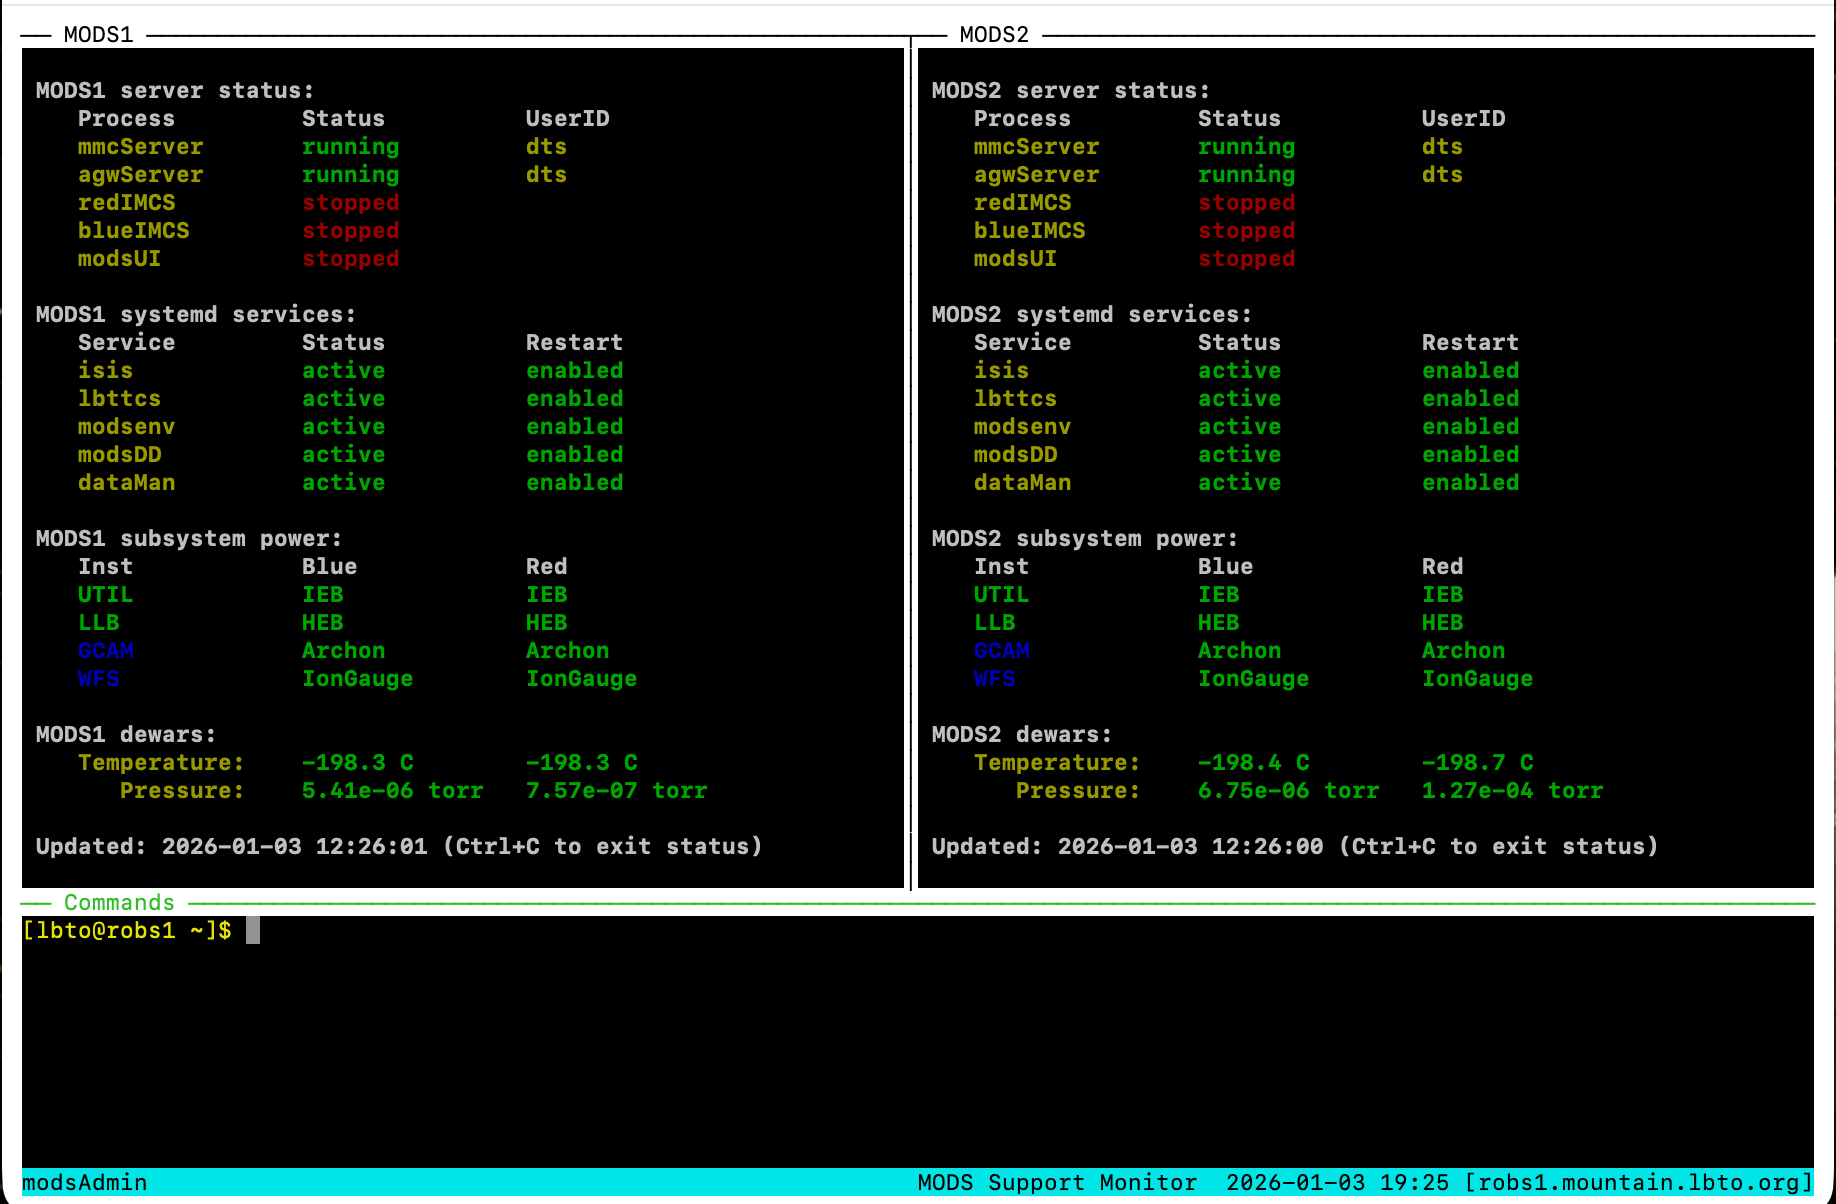
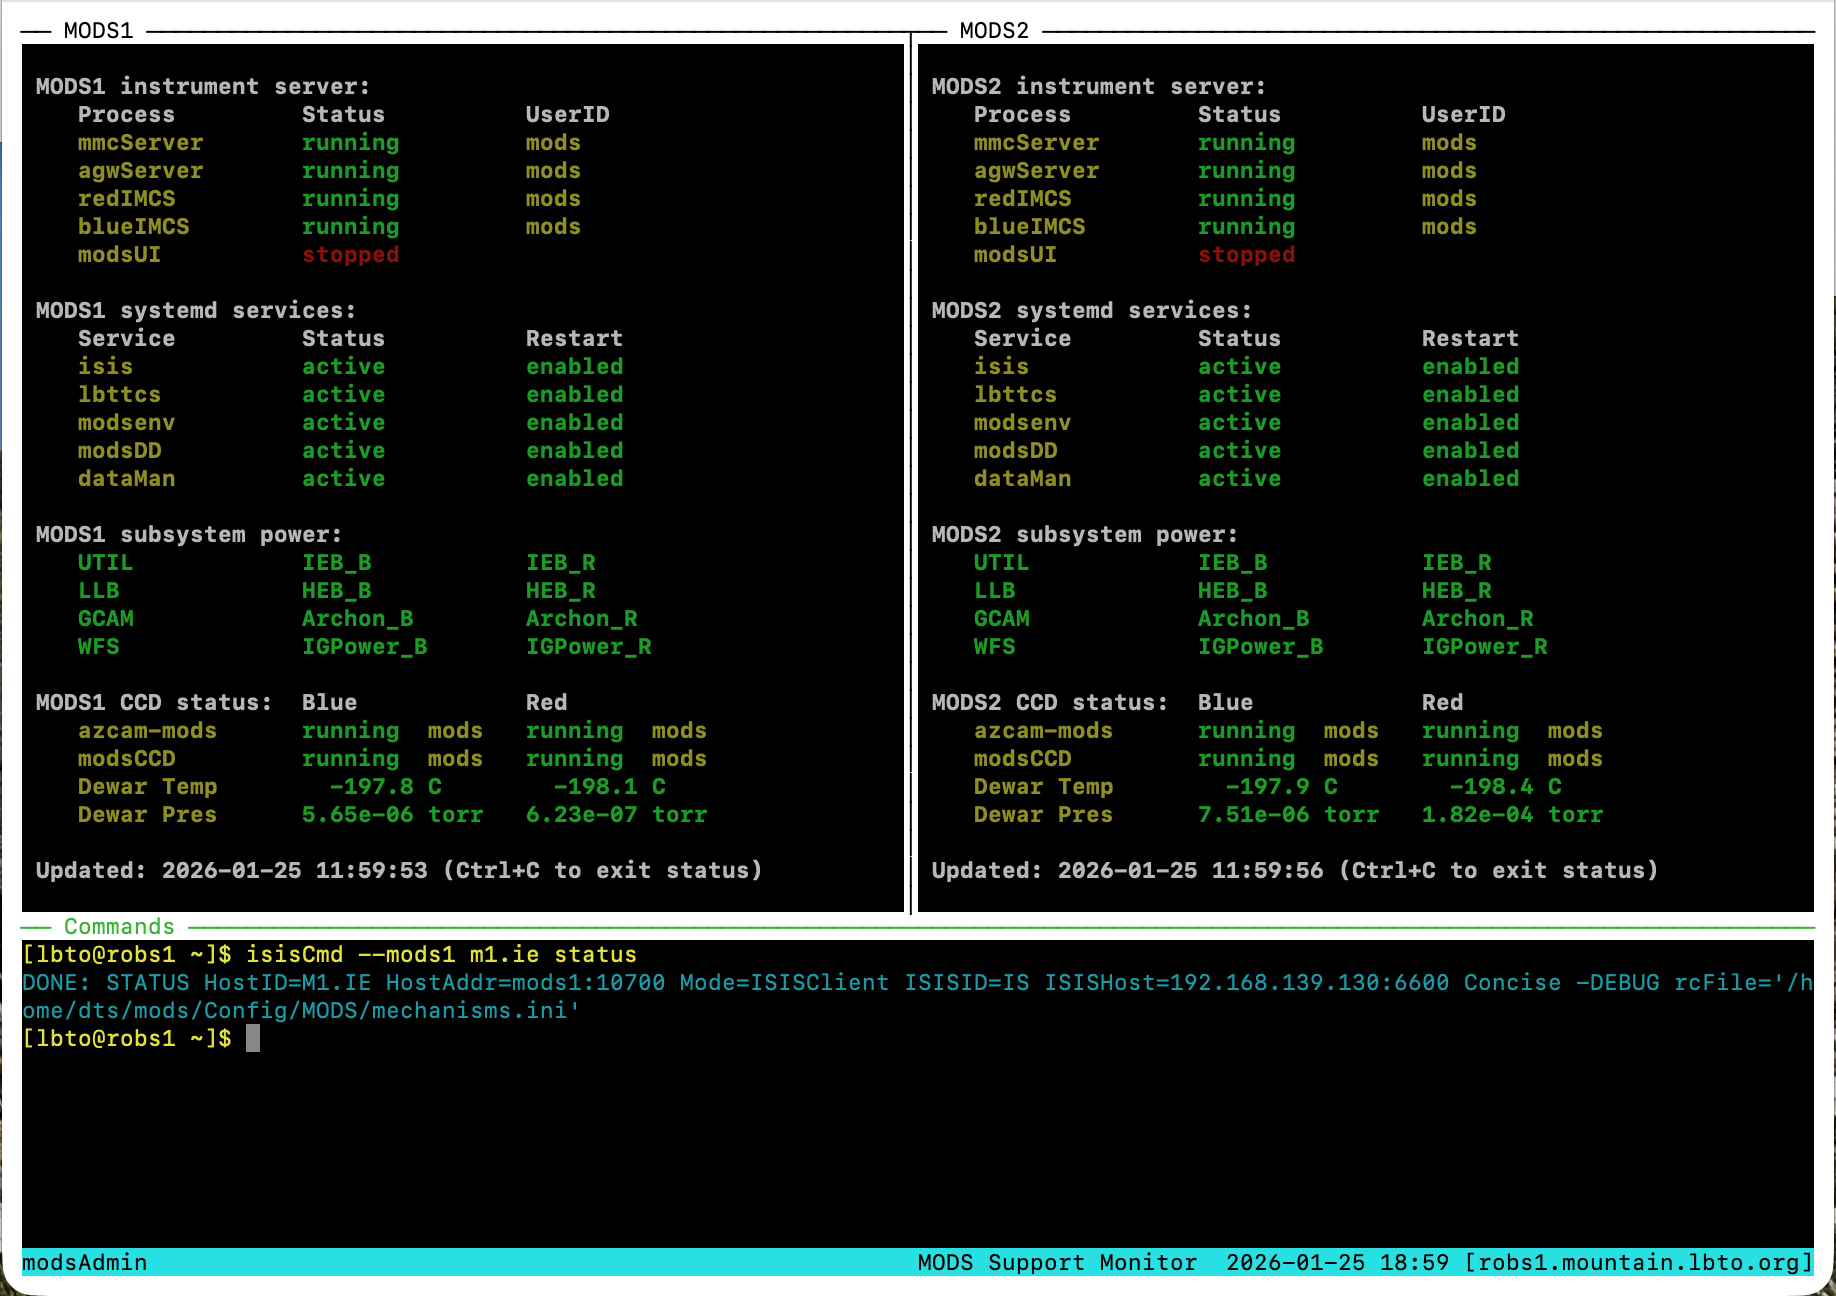
Scripts doc update

diff --git a/Scripts/readme.md b/Scripts/readme.md
@@ -247,7 +247,7 @@ This screenshot was taken of a VPN ssh session from the author's home
 computer logged into the `mods1` server at LBT.  Because it works with
 a terminal, not a screen share, it is fast and sharp.
 
-![mods1 server admin tmux session with AGW on and just turned AGC off](Screenshots/mods1_agwOn.png)
+![mods1 server admin tmux session by the mods support user](Screenshots/mods1_mods.png)
 
 ### `modsAdmin` monitor session
 
